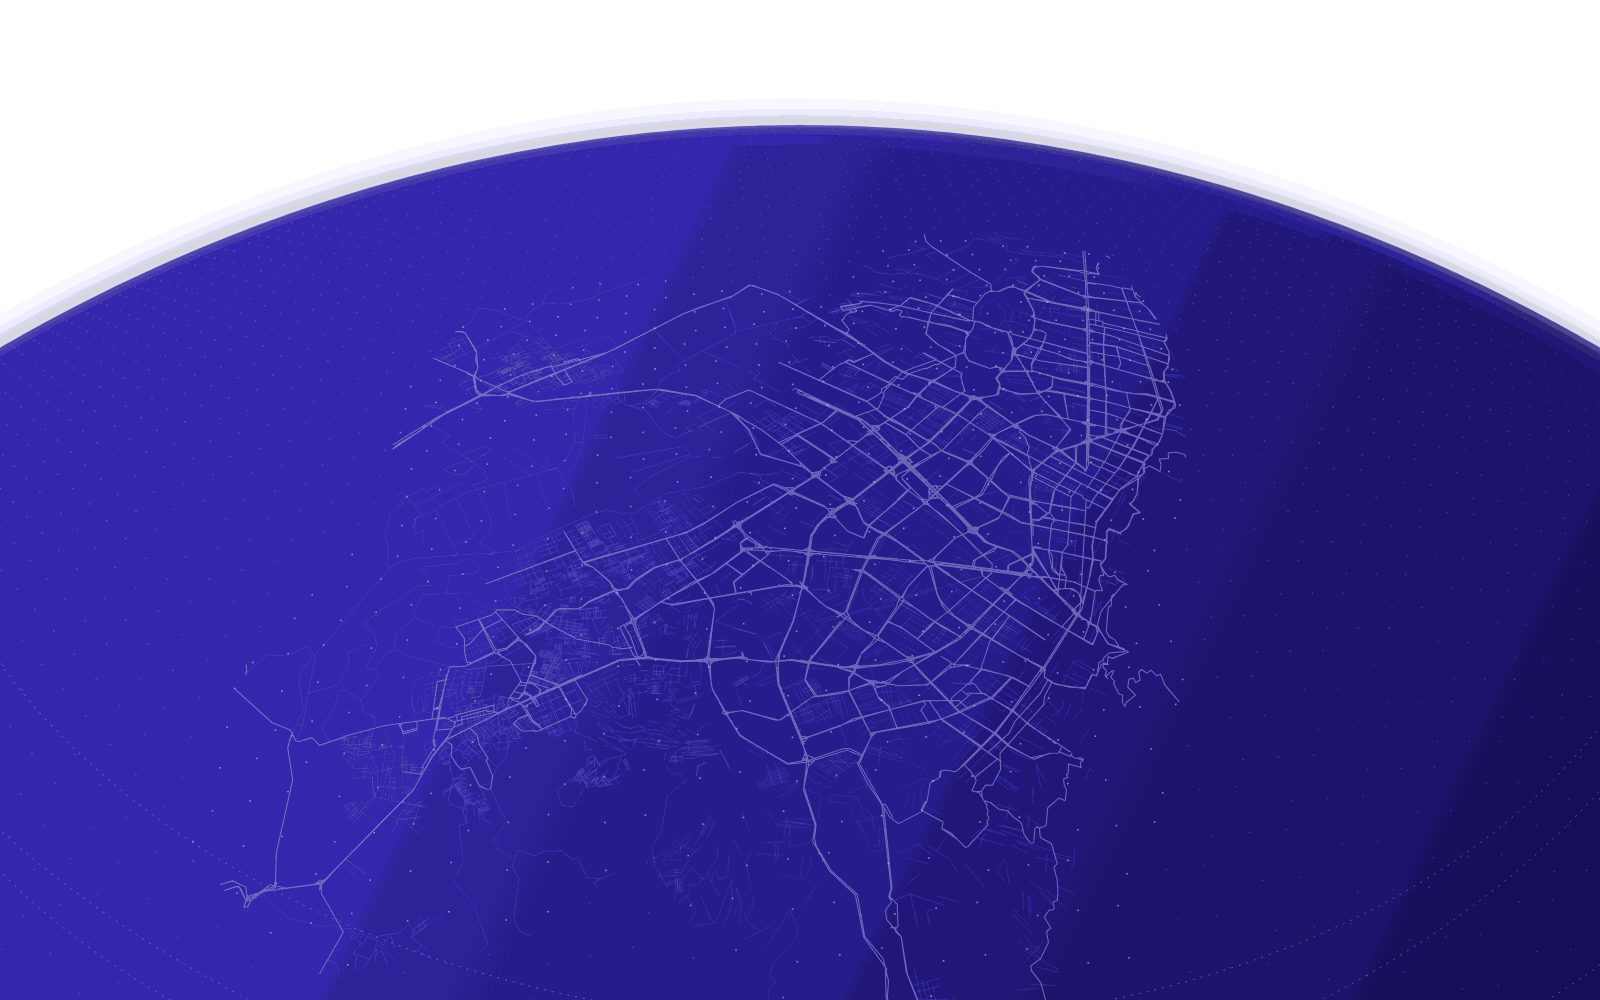
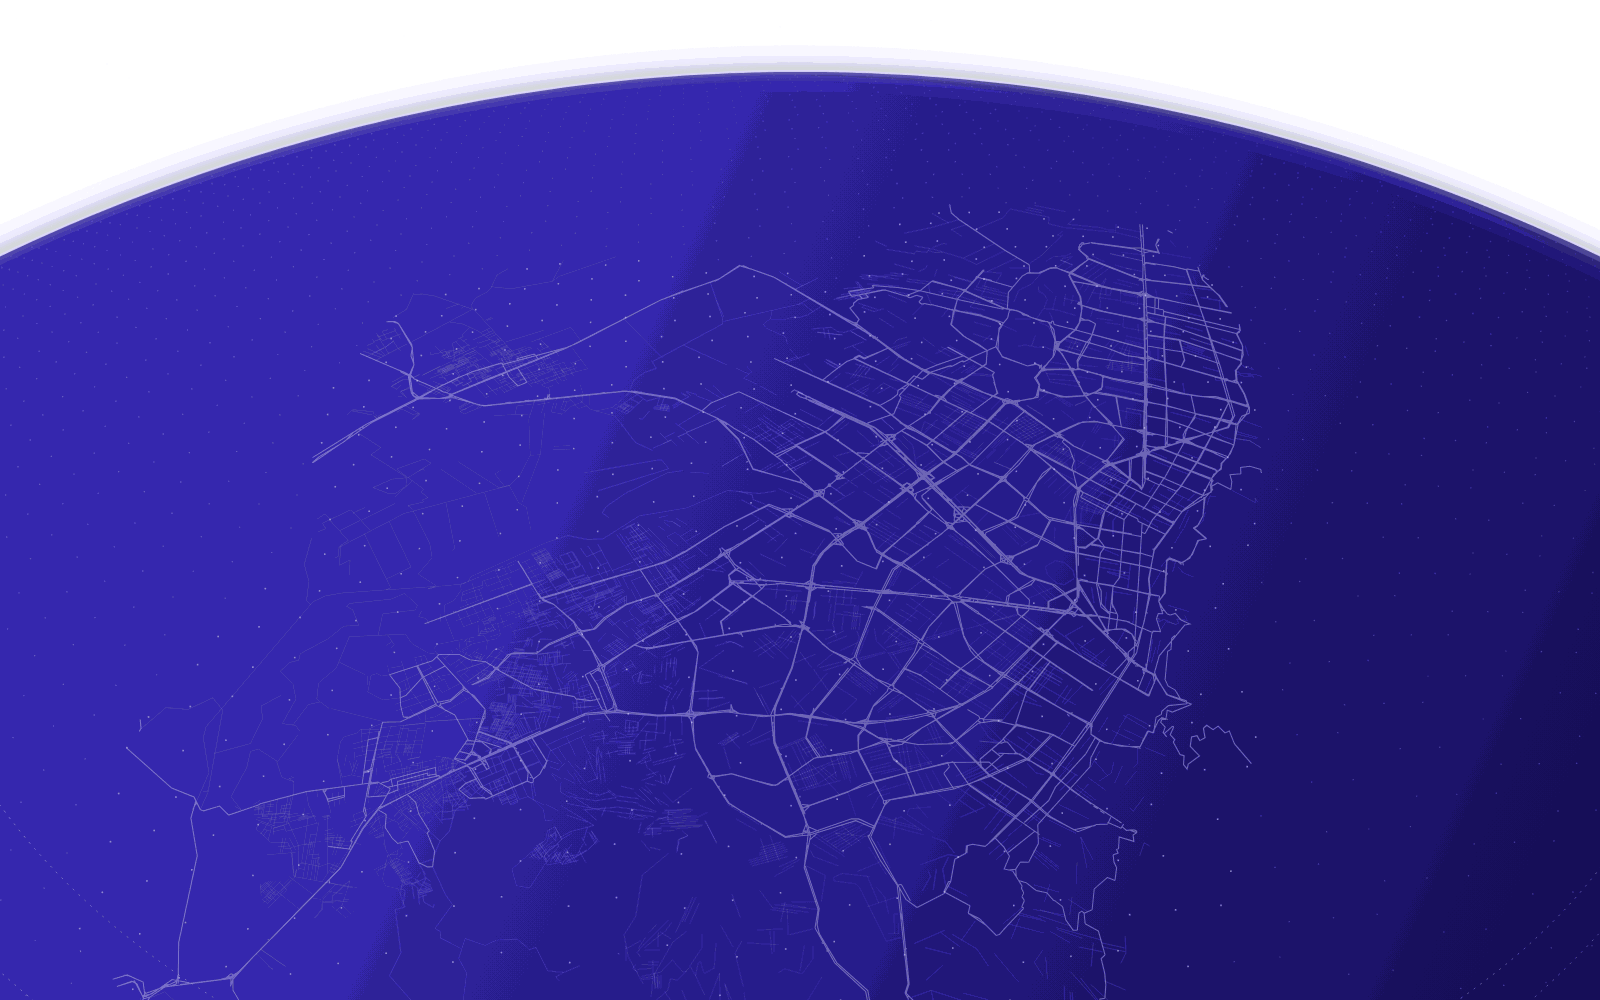
Web: Bogotá aún más grande en frontal e ícono de pestaña de la caja
Claude-Session: https://claude.ai/code/session_01DxqiBbSv11VANarNNGiE5G

diff --git a/index.html b/index.html
@@ -11,11 +11,11 @@
     <link rel="stylesheet" href="https://cdnjs.cloudflare.com/ajax/libs/leaflet/1.9.4/leaflet.min.css" media="print" onload="this.media='all'">
     <link rel="stylesheet" href="Styles/stylesindex.css?v=2">
     <link href="https://fonts.googleapis.com/css2?family=Poppins:wght@400;500;600;700&family=Nunito:wght@500;600;700&display=swap" rel="stylesheet">
-    <link rel="icon" href="IMG/Minilogo-transparencia.png">
+    <link rel="icon" href="IMG/icon-192.png">
     <link rel="stylesheet" href="Styles/upgrade.css?v=21">
     <!-- El planeta es una imagen ya dibujada: se precarga la de cada dispositivo -->
-    <link rel="preload" href="IMG/planeta-oblicuo.png?v=5" as="image" type="image/png" media="(min-width: 901px) and (orientation: landscape)">
-    <link rel="preload" href="IMG/planeta-frontal.png?v=5" as="image" type="image/png" media="(max-width: 900px), (orientation: portrait)">
+    <link rel="preload" href="IMG/planeta-oblicuo.png?v=6" as="image" type="image/png" media="(min-width: 901px) and (orientation: landscape)">
+    <link rel="preload" href="IMG/planeta-frontal.png?v=6" as="image" type="image/png" media="(max-width: 900px), (orientation: portrait)">
     <script>document.documentElement.classList.add('js');</script>
 </head>
 <body>
@@ -346,7 +346,7 @@
 </div>
 </main>
 
-<script src="Scripts/planeta.js?v=27" defer></script>
+<script src="Scripts/planeta.js?v=28" defer></script>
 <script src="https://cdnjs.cloudflare.com/ajax/libs/leaflet/1.9.4/leaflet.min.js" defer></script>
 <script src="Scripts/scriptindex.js?v=2" defer></script>
 

diff --git a/Scripts/planeta.js b/Scripts/planeta.js
@@ -129,7 +129,7 @@
     const v = canvas.dataset.vista || (alLado() ? 'oblicuo' : 'frontal');   // data-vista fuerza una vista
     if (v === variante) return;
     variante = v;
-    canvas.style.backgroundImage = `url(${base}IMG/planeta-${v}.png?v=5)`;
+    canvas.style.backgroundImage = `url(${base}IMG/planeta-${v}.png?v=6)`;
     entregas = []; pings.length = 0;
     const usar = (d) => {
       if (variante !== v) return;
@@ -139,7 +139,7 @@
     };
     if (cache[v]) { usar(cache[v]); return; }
     rutas = [];
-    fetch(`${base}Scripts/planeta-${v}.json?v=6`)
+    fetch(`${base}Scripts/planeta-${v}.json?v=7`)
       .then((r) => (r.ok ? r.json() : Promise.reject()))
       .then((d) => {
         d.rutasListas = d.rutas.map((r) => ({ a: r.a, d: r.d, p: deshacer(r.p) }));

diff --git a/Pages/indexunete.html b/Pages/indexunete.html
@@ -8,7 +8,7 @@
     <link rel="stylesheet" href="../Styles/stylesindex.css?v=2">
     <link rel="stylesheet" href="../Styles/Stylesunete.css?v=2">
     <link href="https://fonts.googleapis.com/css2?family=Poppins:wght@400;500;600;700&family=Nunito:wght@500;600;700&display=swap" rel="stylesheet">
-    <link rel="icon" href="../IMG/Minilogo-transparencia.png">
+    <link rel="icon" href="../IMG/icon-192.png">
     <link rel="stylesheet" href="../Styles/upgrade.css?v=21">
     <script>document.documentElement.classList.add('js');</script>
 </head>

diff --git a/Pages/indexcontacto.html b/Pages/indexcontacto.html
@@ -8,7 +8,7 @@
     <link rel="stylesheet" href="../Styles/stylesindex.css?v=2">
     <link rel="stylesheet" href="../Styles/stylescontacto.css">
     <link href="https://fonts.googleapis.com/css2?family=Poppins:wght@400;500;600;700&family=Nunito:wght@500;600;700&display=swap" rel="stylesheet">
-    <link rel="icon" href="../IMG/Minilogo-transparencia.png">
+    <link rel="icon" href="../IMG/icon-192.png">
     <link rel="stylesheet" href="../Styles/upgrade.css?v=21">
     <script>document.documentElement.classList.add('js');</script>
 </head>

diff --git a/Pages/indexnosotros.html b/Pages/indexnosotros.html
@@ -7,7 +7,7 @@
     <link rel="stylesheet" href="../Styles/stylesindex.css?v=2">
     <link rel="stylesheet" href="../Styles/Stylesnosotros.css">
     <link href="https://fonts.googleapis.com/css2?family=Poppins:wght@400;500;600;700&display=swap" rel="stylesheet">
-    <link rel="icon" href="../IMG/Minilogo-transparencia.png">
+    <link rel="icon" href="../IMG/icon-192.png">
     <link rel="stylesheet" href="../Styles/upgrade.css?v=21">
     <script>document.documentElement.classList.add('js');</script>
 </head>
